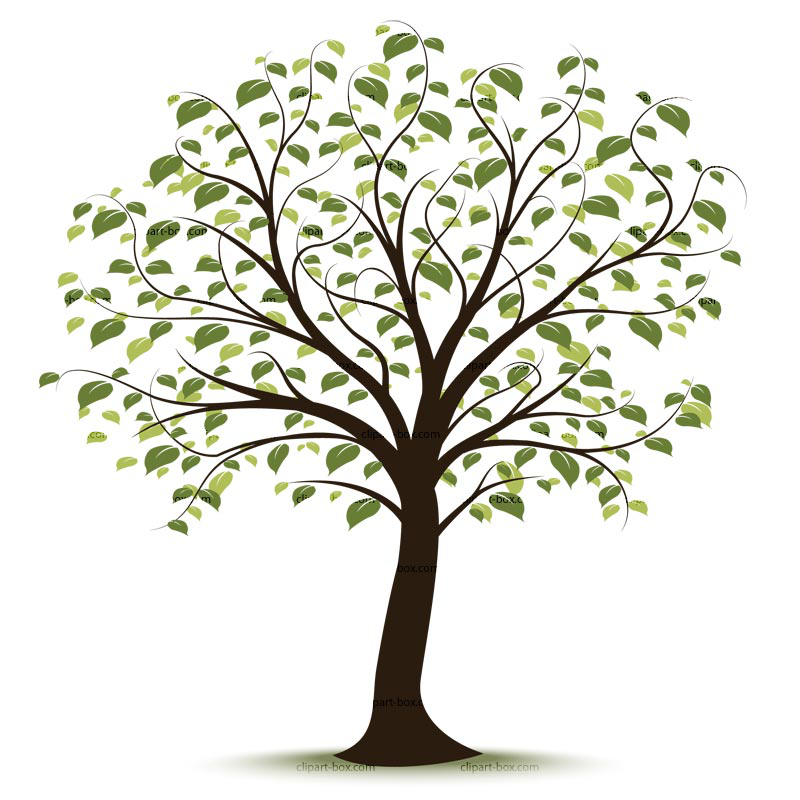
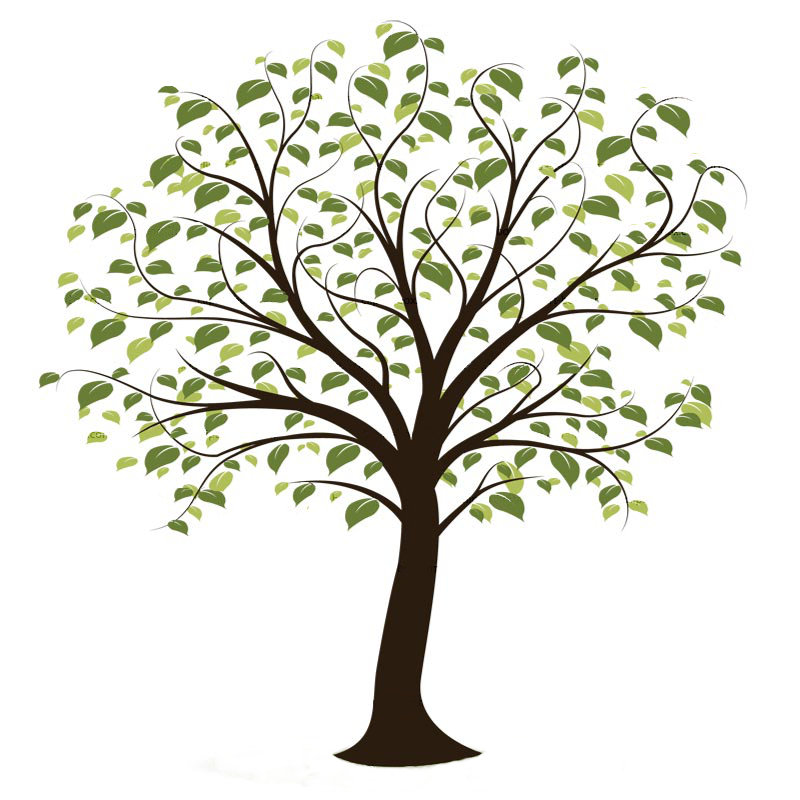
family tree

diff --git a/finalproject/history.html b/finalproject/history.html
@@ -40,7 +40,7 @@
                 </nav>
             </div>    
                 <h2 class="his_title">Mathis Family History</h2>
-                <img src="images/familytree2.png" class="tree" alt="tree clipart">
+                <img src="images/familytree3.png" class="tree" alt="tree clipart">
         </div> 
     </main>
     </div>
